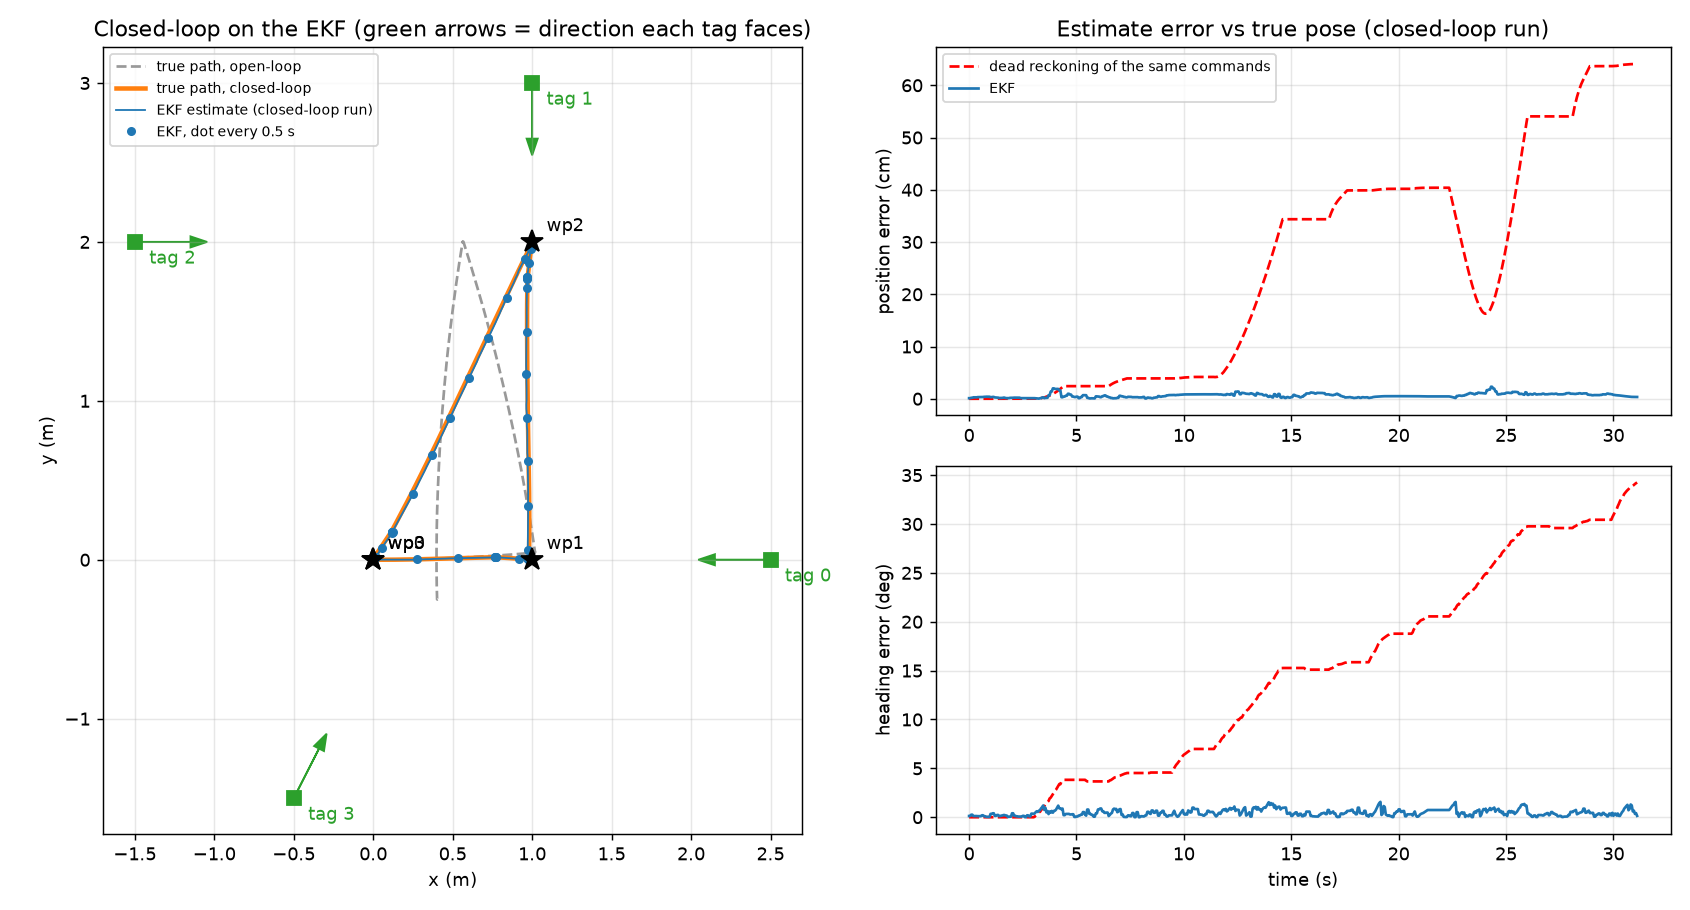
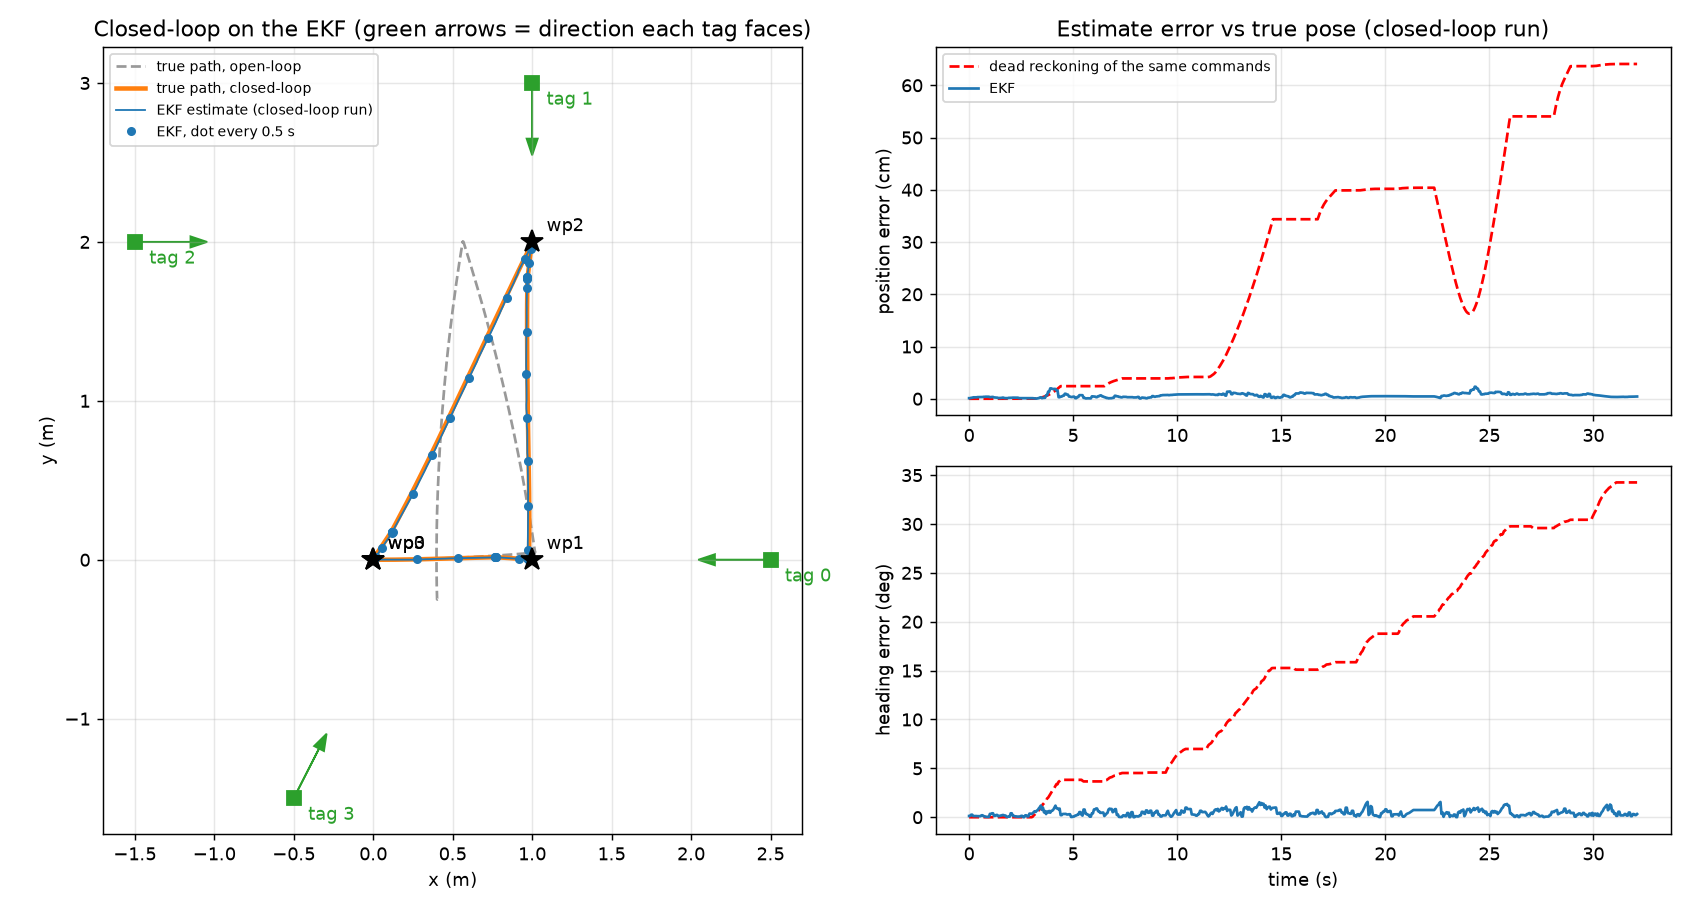
cleaned for HW2 submission

diff --git a/robot_control/hw2_localization/plot_log.py b/robot_control/hw2_localization/plot_log.py
@@ -2,7 +2,7 @@
 
     python3 -m hw2_localization.plot_log ~/hw2_logs/localization_XXXX.csv --waypoints config/hw2_waypoints.txt
     ... --truth ~/hw2_logs/fake_truth.csv     # only exists for the fake-detection test (true pose of the fake robot)
-    ... --params config/localization.yaml     # draw the tag map from the config (needs PyYAML), else the defaults
+    ... --params config/localization_full.yaml     # draw the tag map from the config (needs PyYAML), else the defaults
 
 On the real robot there is no ground truth: the table shows the ESTIMATED pose vs each goal. Measure the real
 final position with a tape for the report. matplotlib is only needed for the plot.
@@ -109,7 +109,7 @@ def main():
     ap.add_argument('log', help='localization_*.csv from localization_control')
     ap.add_argument('--waypoints', required=True, help='the waypoint file the run used')
     ap.add_argument('--truth', help='fake_truth.csv (fake-detection test only)')
-    ap.add_argument('--params', help='localization.yaml, to draw the tag map (needs PyYAML)')
+    ap.add_argument('--params', help='params yaml (localization_full.yaml), to draw the tag map (needs PyYAML)')
     ap.add_argument('--out', default=None, help='PNG path (default: next to the log)')
     args = ap.parse_args()
 

diff --git a/robot_control/robot_control/localization_control.py b/robot_control/robot_control/localization_control.py
@@ -40,12 +40,12 @@ class LocalizationNode(Node):
         self.declare_parameter('detections_topic', 'detections')
         self.declare_parameter('commands_topic', 'motor_commands')
         self.declare_parameter('tf_max_age', 0.3)  # s; newest-TF fallback is rejected if older than this
-        self.declare_parameter('min_cmd', 0.12)  # TO MEASURE on carpet: smallest wheel command used while moving
-        self.declare_parameter('deadband', 0.10)  # TO MEASURE on carpet: wheel commands below this do nothing
+        self.declare_parameter('min_cmd', 0.12)  # smallest wheel command used while moving
+        self.declare_parameter('deadband', 0.10)  # wheel commands below this do nothing
         self.declare_parameter('turn_tol_deg', 2.0)
         self.declare_parameter('reaim_tol_deg', 5.0)
         self.declare_parameter('pos_tol', 0.03)
-        self.declare_parameter('final_checks', 2)  # after the last turn: pause for a tag fix, re-check the heading this many times
+        self.declare_parameter('final_checks', 2)  # heading re-checks after the last turn (0 = none)
         self.declare_parameter('log_dir', os.path.expanduser('~/hw2_logs'))
         for key, val in E.NOISE.items():
             self.declare_parameter(f'ekf.{key}', float(val))

diff --git a/robot_control/robot_control/fake_detections.py b/robot_control/robot_control/fake_detections.py
@@ -1,4 +1,4 @@
-"""TEST ONLY: stands in for the broken camera + apriltag_node. Simulates the robot (open-loop calibration error
+"""TEST ONLY: stands in for the camera + apriltag_node. Simulates the robot (open-loop calibration error
 from the simulator) driven by the commands on motor_commands, and publishes what apriltag_node would:
   - /tf   camera_frame -> tag_<id> (tag position in the camera frame; rotation is identity, NOT meaningful)
   - detections (AprilTagDetectionArray with id/family/centre; homography and corners are left zero)
@@ -22,7 +22,7 @@ from tf2_ros import TransformBroadcaster
 from hw2_localization import sim
 from robot_control.localization_params import declare_map_params, read_camera, read_tag_map
 
-FX, FY, CX, CY = 491.0, 492.0, 639.0, 357.0  # intrinsics from robot_vision/config/camera_parameter.yaml
+FX, FY, CX, CY = 491.0, 492.0, 639.0, 357.0  # approximate intrinsics, only used for the fake detection's pixel centre
 
 
 class FakeDetections(Node):

diff --git a/robot_control/hw2_localization/controller.py b/robot_control/hw2_localization/controller.py
@@ -7,7 +7,7 @@ import math
 
 from .ekf import wrap
 
-MIN_CMD = 0.12  # smallest wheel command used while moving (ASSUMED above the motors' deadband; measure on the robot)
+MIN_CMD = 0.12  # default smallest wheel command used while moving (localization_control sets it from min_cmd)
 TURN_TOL = math.radians(2)  # a turn is done when the heading error is below this
 REAIM_TOL = math.radians(5)  # while driving, stop and re-aim if the heading error grows past this
 POS_TOL = 0.03  # a drive is done when the distance to the waypoint is below this (m)
@@ -117,7 +117,6 @@ class Controller:
         if self.phase == 'verify':  # the pause after the last turn gave tags time to correct the estimate
             if abs(err) < self.turn_tol:
                 return self._finish_waypoint(t)
-            self.phase, self.t0 = 'final', t
             self._begin('final', t, pose)
             return self._turn(err)
 

diff --git a/robot_control/setup.py b/robot_control/setup.py
@@ -12,9 +12,7 @@ setup(
         ('share/' + package_name, ['package.xml']),
         ('share/' + package_name + '/launch', ['launch/robot_teleop_launch.py']),
         ('share/' + package_name + '/config', ['config/waypoints.txt', 'config/hw2_waypoints.txt',
-                                               'config/localization.yaml', 'config/apriltag_hw2.yaml',
-                                               'config/hw2_leg1_waypoints.txt', 'config/localization_leg1.yaml',
-                                               'config/localization_full.yaml']),
+                                               'config/localization_full.yaml', 'config/apriltag_hw2.yaml']),
         ('share/' + package_name + '/launch', ['launch/tag_detection_launch.py', 'launch/localization_launch.py']),
     ],
     install_requires=[

diff --git a/robot_control/launch/localization_launch.py b/robot_control/launch/localization_launch.py
@@ -1,4 +1,4 @@
-"""Start localization_control with config/localization.yaml (or your own copy via params_file:=...).
+"""Start localization_control with config/localization_full.yaml (or your own copy via params_file:=...).
 
     ros2 launch robot_control localization_launch.py
 """
@@ -12,7 +12,7 @@ from launch_ros.actions import Node
 
 
 def generate_launch_description():
-    default = os.path.join(get_package_share_directory('robot_control'), 'config', 'localization.yaml')
+    default = os.path.join(get_package_share_directory('robot_control'), 'config', 'localization_full.yaml')
     return LaunchDescription([
         DeclareLaunchArgument('params_file', default_value=default),
         Node(package='robot_control', executable='localization_control', name='localization_control',

diff --git a/robot_control/robot_control/localization_params.py b/robot_control/robot_control/localization_params.py
@@ -1,5 +1,5 @@
 """Parameter helpers shared by localization_control and fake_detections: the tag map and camera mount
-come from ROS parameters (config/localization.yaml), nothing is hard-coded in the nodes."""
+come from ROS parameters (config/localization_full.yaml), nothing is hard-coded in the nodes."""
 import math
 import os
 
@@ -9,7 +9,7 @@ from hw2_localization import ekf as E
 
 
 def declare_map_params(node):
-    """Declare the tag map and camera mount parameters (defaults = the first-pass layout in ekf.py)."""
+    """Declare the tag map and camera mount parameters (defaults = TAG_MAP and CAMERA in ekf.py)."""
     ids = sorted(E.TAG_MAP)
     node.declare_parameter('tags.ids', ids)
     for i, key in enumerate(('x', 'y', 'z', 'yaw')):

diff --git a/robot_control/hw2_localization/ekf.py b/robot_control/hw2_localization/ekf.py
@@ -23,7 +23,8 @@ R_VC_LEVEL = ((0.0, 0.0, 1.0),
               (-1.0, 0.0, 0.0),
               (0.0, -1.0, 0.0))
 
-# ---- Default tag map: id -> (x, y, z, facing yaw of the tag's normal), meters / radians. First pass, re-measure. ----
+# ---- Default tag map for the simulator: id -> (x, y, z, facing yaw of the tag's normal), meters / radians. ----
+# (the robot reads its real map from the params file)
 TAG_MAP = {
     0: (2.5, 0.0, 0.12, math.pi),
     1: (1.0, 3.0, 0.12, -math.pi / 2),

diff --git a/robot_control/hw2_localization/summary.md b/robot_control/hw2_localization/summary.md
@@ -1,4 +1,4 @@
-# hw2_localization: what we've built so far
+# hw2_localization
 
 AprilTag-based localization (EKF) and a closed-loop waypoint controller for HW2, plus a simulator and a ROS 2 wrapper.
 The code in this folder is **stdlib-only and ROS-free**, so the simulator and the ROS node share it.
@@ -15,9 +15,9 @@ The code in this folder is **stdlib-only and ROS-free**, so the simulator and th
 | `plot_log.py` | Turns a `localization_control` CSV log into the trajectory plot and the waypoint error table |
 | `out/sim.png` | Closed-loop simulation plot |
 
-ROS side (in `robot_control/`): `localization_control.py` (the node), `fake_detections.py` (test stand-in for the camera),
-`localization_params.py`, `config/localization.yaml`, `config/apriltag_hw2.yaml`, `config/hw2_waypoints.txt`,
-`launch/tag_detection_launch.py`, `launch/localization_launch.py`.
+ROS side (in `robot_control/`): `robot_control/localization_control.py` (the node), `robot_control/fake_detections.py` (test stand-in for the camera),
+`robot_control/localization_params.py`, `config/localization_full.yaml`, `config/apriltag_hw2.yaml`, `config/hw2_waypoints.txt`,
+`launch/tag_detection_launch.py`, `launch/localization_launch.py`. The repo-root `run_hw2.sh` starts everything on the robot.
 
 ## EKF (`ekf.py`)
 - **Predict:** the same differential-drive model as `velocity_control.py`. `cmds_to_vw` inverts `wheel_cmds` to get `(v, w)` from the
@@ -35,6 +35,8 @@ Same structure as `velocity_control.py` (face the waypoint, drive, turn to the f
 - drive until the distance is under 3 cm, with proportional speed and steering. Stop and re-aim if the heading error exceeds 5 deg
   (not within 0.15 m of the goal, where the bearing is too noisy)
 - proportional control clipped to `CRUISE_SPEED` / `TURN_RATE`, never below `max(min_cmd, deadband)`
+- after the last waypoint's final turn: pause, re-check the heading against the (now tag-corrected) estimate, and turn again if it is
+  still off, up to `final_checks` times (default 2, `0` = off)
 - timeout on every move and 60 s per waypoint, so it cannot loop forever
 - zero command at the end of every move, then the 1 s pause from `velocity_control.PAUSE`
 
@@ -44,8 +46,9 @@ Same structure as `velocity_control.py` (face the waypoint, drive, turn to the f
 - Fake detections at 10 Hz: 60 deg horizontal field of view, 3.5 m max range, tags seen more than 70 deg edge-on are dropped, 5% random dropout,
   noise on range and bearing.
 - Default route `(0,0,0) -> (1,0,0) -> (1,2,pi) -> (0,0,0)`, tag map ID0 (2.5, 0) facing -x, ID1 (1, 3) facing -y, ID2 (-1.5, 2) facing +x, ID3 (-0.5, -1.5) facing 63 deg.
+  (This is the simulator's own layout, not the course layout in `config/localization_full.yaml`.)
 
-Run (from `robot_control/`): `python3 -m hw2_localization.run_sim` (the plot needs matplotlib; `--runs N` sets the Monte Carlo size).
+Run: `python3 -m hw2_localization.run_sim` (the plot needs matplotlib; `--runs N` sets the Monte Carlo size).
 
 ### Simulation results (seed 1, 3% wheel mismatch, 3% track error)
 True error, robot vs goal (cm / deg):
@@ -56,35 +59,42 @@ True error, robot vs goal (cm / deg):
 | 2 (1,2,180) | 43.5 / 14.0 | 2.9 / 0.3 |
 | 3 (0,0,0) | 47.6 / 24.3 | 1.7 / 0.3 |
 
-Run time to the last waypoint: 19.3 s open-loop, 31.1 s closed-loop.
+Run time to the last waypoint: 19.3 s open-loop, 32.1 s closed-loop.
 
-30 runs with random 1-5% errors: open-loop mean 33.6 cm / 17.8 deg (worst 164.7 cm), closed-loop mean 2.7 cm / 0.9 deg (worst 5.1 cm).
+30 runs with random 1-5% errors: open-loop mean 33.6 cm / 17.8 deg (worst 164.7 cm), closed-loop mean 2.7 cm / 0.9 deg (worst 5.1 cm, 3.3 deg).
 
 ## ROS 2 node (`robot_control/localization_control.py`)
 - 20 Hz tick: EKF predict from the last command, fuse pending detections, run the controller, publish `[L, R]` on `motor_commands`.
 - Detections: subscribes to `detections`, then reads the tag pose from TF (`camera_frame -> tag_<id>`) at the detection's header stamp.
   If that TF is missing it falls back to the newest TF, but only if it is under 0.3 s old.
-- Failsafe: no usable tag for `max_blind_time` (10 s) means stop and log a warning. Otherwise it runs predict-only.
+- Failsafe: no usable tag for `max_blind_time` means stop and log a warning. Otherwise it runs predict-only.
 - Always sends a final `[0, 0]` on finish or Ctrl-C (same pattern as `velocity_control.py`).
 - Writes a CSV log to `~/hw2_logs/` (time, pose, wheels, tags in view and their IDs, waypoint index, phase, uncertainty).
-- Everything is a parameter (`config/localization.yaml`): tag map, camera mount, waypoints, `min_cmd`, `deadband`, noise.
+- Everything is a parameter (`config/localization_full.yaml`): tag map, camera mount, waypoints, `min_cmd`, `deadband`, tolerances, noise.
 
-### What the camera/AprilTag code provides (checked in the source)
+### What the camera/AprilTag code provides
 - `apriltag_node` publishes **poses only as TF** (header = image header, child = `tag_<id>`). `/detections` has id, corners, centre and homography, no pose.
   It publishes `/detections` first and TF second.
 - Images and `camera_info` use frame `camera_frame`, which uses the OpenCV axes (x right, y down, z forward).
 - `image_proc` rectify: `/camera/image_raw` + `camera_info` -> `/camera/image_rect`, which apriltag reads.
 - The camera node's own `image_rectify` option publishes a mismatched `camera_info`, so keep it off.
-- The intrinsics in `robot_vision/config/camera_parameter.yaml` are untuned and look implausible. Recalibrate before trusting real poses.
+- The intrinsics in `robot_vision/config/camera_parameter.yaml` come from `robot_vision/calibration/` (`capture_frames.py` on the robot, `calibrate.py` on a laptop).
 
-### Launch files
+## Running it
+On the robot, `./run_hw2.sh` (from the repo root) starts the camera, tag detection, motor control and the run, each in a tmux window; the run waits for Enter.
+Without the script:
 ```
-ros2 launch robot_control tag_detection_launch.py tag_size:=0.150   # rectify + apriltag_node (family 36h11, ids 0-5)
-ros2 launch robot_control localization_launch.py                    # localization_control with config/localization.yaml
+ros2 launch robot_vision_camera robot_vision_camera.launch.py
+ros2 launch robot_control tag_detection_launch.py tag_size:=0.16   # rectify + apriltag_node (family 36h11, ids 0-5)
+ros2 run robot_control motor_control
+ros2 launch robot_control localization_launch.py                    # localization_control with config/localization_full.yaml
 ```
-The camera (`robot_vision`) and `motor_control` are started separately.
 
-## Tests done (all in the `ros_dev` container, no camera)
+After a run, plot a log with
+`python3 -m hw2_localization.plot_log LOG.csv --waypoints config/hw2_waypoints.txt [--truth fake_truth.csv]`.
+On the real robot there is no ground truth, so the table compares the estimated pose with each goal; measure the real final position with a tape.
+
+## Fake-detection tests (no camera)
 `fake_detections` simulates the robot and publishes the same TF and detection messages. It runs against `motor_control` with the fake serial module.
 
 | Test | Result |
@@ -94,15 +104,3 @@ The camera (`robot_vision`) and `motor_control` are started separately.
 | Ctrl-C mid-turn | Final zero command reached the serial output 52 ms after the last turn command. |
 | Newest-TF fallback (TF stamp offset 20 ms) | Route finished, 3 fallbacks used. |
 | Real `apriltag_node` on a synthetic tag image | A tag placed at (0, 0.005, 2.415) m was reported at (0.003, 0.009, 2.398) m. Our node used 59 detections. |
-
-Test scripts and logs: `~/ros2_ws/runs/hw2/`. Plot a log with
-`python3 -m hw2_localization.plot_log LOG.csv --waypoints config/hw2_waypoints.txt [--truth fake_truth.csv]`.
-
-## Still to do / unknown
-- **Real robot and camera:** nothing here has run on hardware. The camera is currently broken.
-- **To measure on the carpet:** `min_cmd` and `deadband` (placeholders 0.12 and 0.10), and the real wheel/track errors.
-- **To measure for the tags:** the printed tag size (`tag_size`) and the real tag positions and facing angles (the map is a first pass). Tags 4 and 5 are detected but have no map entry yet.
-- **Camera:** recalibrate intrinsics; confirm the 0.085 / 0 / 0.125 m mount and that it is level.
-- **HW2 handout:** not seen. `config/hw2_waypoints.txt` holds the assumed route used in the simulator, so replace it with the real waypoints.
-- **Noise and gate values:** the filter and simulator noise are my guesses, so retune on real detections. The simulator numbers are optimistic.
-- **Not committed:** all of this is untracked or modified in the working tree.
